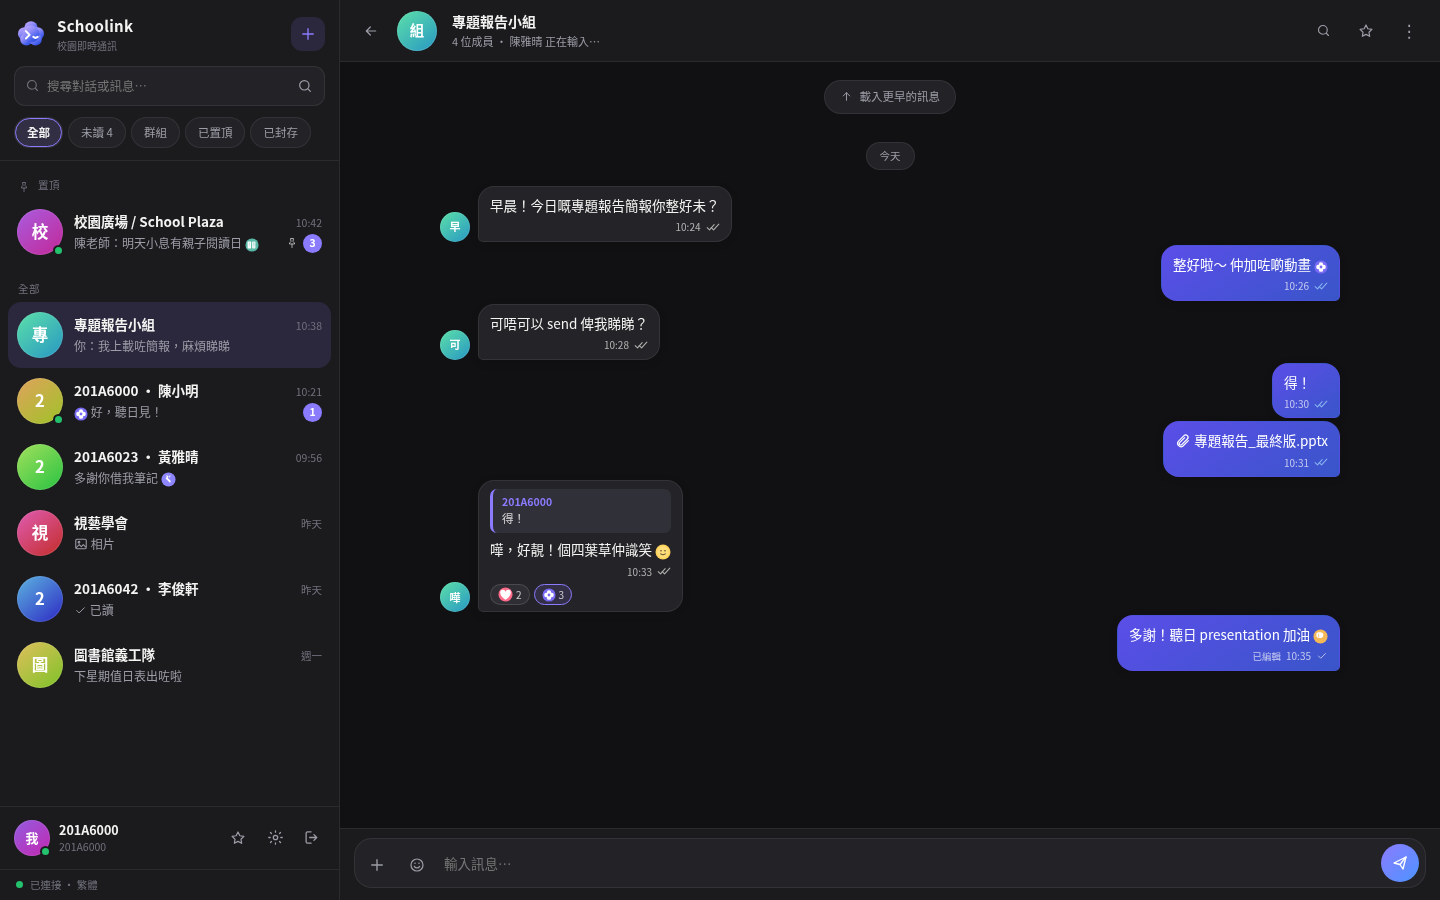
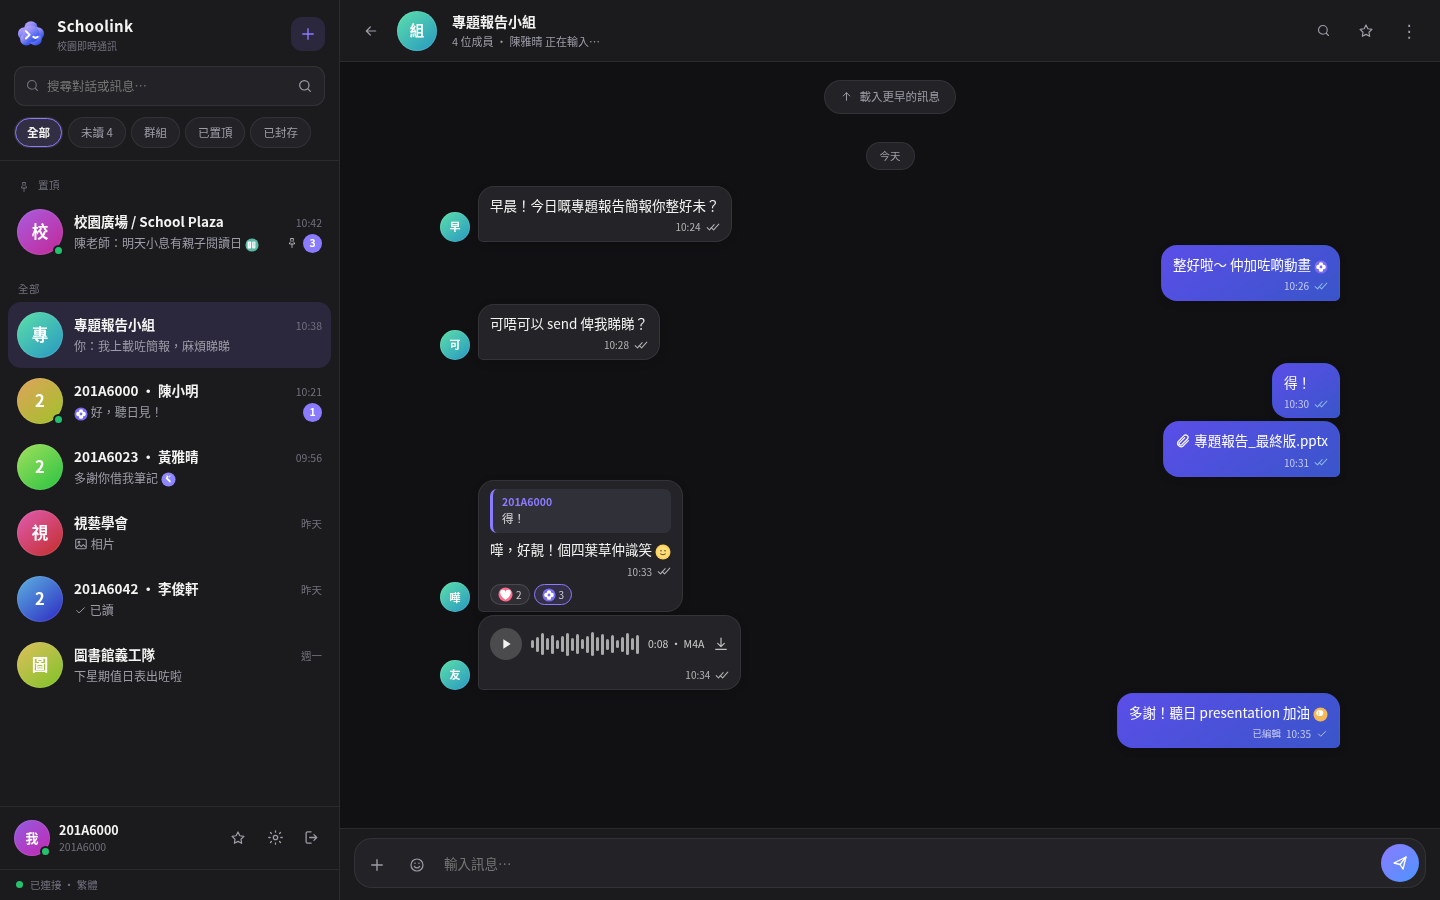
Schoolink v2: TypeScript + Next.js 16, WebSocket realtime, PWA, full animations

Changed region(s): [[0.75, 0.6844, 0.9375, 0.84], [0.2812, 0.6844, 0.4375, 0.7778], [0.4688, 0.7467, 0.5, 0.7778]]

diff --git a/lib/m4a.ts b/lib/m4a.ts
@@ -1,0 +1,148 @@
+/**
+ * 语音统一成 M4A（AAC / MP4）。
+ *
+ * 零第三方依赖，全部用浏览器原生能力：
+ *  1. 录制时优先申请 audio/mp4 —— Safari、iOS、Chrome、Edge、Android 都能直接
+ *     吐出 AAC/M4A，一步到位，没有二次转码、没有音质损失、不用等待。
+ *  2. 万一拿到的是 webm/ogg（Firefox 等），录完后再转：Web Audio 解码成 PCM，
+ *     经 MediaStreamAudioDestinationNode 重新以 audio/mp4 录一遍 → 仍是 M4A。
+ *  3. 连 audio/mp4 录制都不支持的浏览器，才保留原格式，并由 UI 明确提示，
+ *     不让用户以为发出去的是 m4a。
+ */
+
+export const M4A_MIME = "audio/mp4";
+export const M4A_EXT = "m4a";
+
+/** 录音优先格式：M4A 在前，webm 只作兜底 */
+const PREFERRED = [
+  // Safari / iOS 支持显式 AAC，优先拿真·AAC M4A
+  "audio/mp4;codecs=mp4a.40.2",
+  M4A_MIME,
+  "audio/x-m4a",
+  "audio/webm;codecs=opus",
+  "audio/webm",
+  "audio/ogg;codecs=opus",
+];
+
+export function isM4a(mime: string): boolean {
+  return /\b(mp4|x-m4a)\b/i.test(mime || "");
+}
+
+/** 选出这个浏览器能用的最佳录音格式（优先 M4A） */
+export function pickRecorderMime(): string {
+  for (const m of PREFERRED) {
+    try { if (MediaRecorder.isTypeSupported(m)) return m; } catch { /* ignore */ }
+  }
+  return ""; // 交给浏览器默认
+}
+
+/** 浏览器是否具备「把任意录音转成 M4A」的能力 */
+export function canTranscodeToM4a(): boolean {
+  try { return MediaRecorder.isTypeSupported(M4A_MIME); } catch { return false; }
+}
+
+export interface VoiceFile {
+  blob: Blob;
+  mime: string;
+  ext: string;
+  duration: number;
+  /** 是否经过二次编码；false = 直接录成 M4A */
+  converted: boolean;
+  /** 无法产出 M4A 时给用户的说明 */
+  notice?: string;
+}
+
+function audioContextCtor(): typeof AudioContext {
+  const g = window as unknown as { webkitAudioContext?: typeof AudioContext };
+  return window.AudioContext || g.webkitAudioContext!;
+}
+
+function roundDuration(sec: number, fallback: number): number {
+  return sec > 0 && Number.isFinite(sec) ? Math.round(sec) : Math.max(1, Math.round(fallback));
+}
+
+/**
+ * 把录音 blob 规范化成 M4A。永远不会抛错导致语音发不出去。
+ */
+export async function toM4a(raw: Blob, fallbackDuration: number): Promise<VoiceFile> {
+  const rawMime = (raw.type || "").split(";")[0].trim() || "audio/webm";
+
+  // 1. 已经是 M4A（绝大多数情况）：只统一 mime，不动数据
+  if (isM4a(rawMime)) {
+    // 保留 ;codecs=mp4a.40.2 / ;codecs=opus，播放器据此选解码器
+    const mime = raw.type || M4A_MIME;
+    return {
+      blob: new Blob([raw], { type: mime }),
+      mime, ext: M4A_EXT,
+      duration: roundDuration(0, fallbackDuration),
+      converted: false,
+    };
+  }
+
+  // 2. 不能录 MP4：保留原格式，明确告知
+  if (!canTranscodeToM4a()) {
+    return {
+      blob: raw, mime: rawMime,
+      ext: /ogg/i.test(rawMime) ? "ogg" : "webm",
+      duration: roundDuration(0, fallbackDuration),
+      converted: false,
+      notice: "此瀏覽器不支援 M4A 編碼，語音以原格式傳送 / This browser cannot encode M4A; voice sent as recorded",
+    };
+  }
+
+  // 3. 解码 → 重新编码成 M4A
+  let ctx: AudioContext | null = null;
+  try {
+    const Ctor = audioContextCtor();
+    if (!Ctor) throw new Error("Web Audio unavailable");
+    ctx = new Ctor();
+    const decoded = await ctx.decodeAudioData(await raw.arrayBuffer());
+    const duration = roundDuration(decoded.duration, fallbackDuration);
+
+    // 太长的录音不做实时重录（避免用户干等），保留原格式
+    if (decoded.duration > 30) {
+      await ctx.close().catch(() => {});
+      return {
+        blob: raw, mime: rawMime, ext: "webm", duration, converted: false,
+        notice: "語音較長，已保留原格式 / Long voice clip kept in original format",
+      };
+    }
+    await ctx.resume().catch(() => {});
+
+    const dest = ctx.createMediaStreamDestination();
+    const src = ctx.createBufferSource();
+    src.buffer = decoded;
+    src.connect(dest);
+
+    const rec = new MediaRecorder(dest.stream, { mimeType: M4A_MIME });
+    const chunks: Blob[] = [];
+    rec.ondataavailable = (e) => { if (e.data.size) chunks.push(e.data); };
+
+    const done = new Promise<Blob>((resolve, reject) => {
+      rec.onstop = () => resolve(new Blob(chunks, { type: M4A_MIME }));
+      rec.onerror = () => reject(new Error("M4A re-encode failed"));
+    });
+    rec.start();
+    src.start();
+    src.onended = () => { setTimeout(() => { if (rec.state !== "inactive") rec.stop(); }, 120); };
+
+    const guard = new Promise<never>((_, reject) =>
+      setTimeout(() => reject(new Error("M4A re-encode timeout")), (duration + 6) * 1000));
+    const out = await Promise.race([done, guard]);
+
+    src.disconnect();
+    await ctx.close().catch(() => {});
+    if (out.size < 256) throw new Error("M4A output too small");
+
+    return { blob: out, mime: M4A_MIME, ext: M4A_EXT, duration, converted: true };
+  } catch {
+    if (ctx) await ctx.close().catch(() => {});
+    return {
+      blob: raw, mime: rawMime,
+      ext: /ogg/i.test(rawMime) ? "ogg" : "webm",
+      duration: roundDuration(0, fallbackDuration),
+      converted: false,
+      notice: "轉碼失敗，語音以原格式傳送 / Conversion failed; voice sent as recorded",
+    };
+  }
+}

diff --git a/components/Composer.tsx b/components/Composer.tsx
@@ -7,6 +7,7 @@ import { IconButton, Spinner, spring, softSpring } from "./ui";
 import { cx } from "@/lib/utils";
 import { FACE_KEYS } from "@/lib/faces";
 import { FaceIcon, Icon } from "./Icon";
+import { toM4a, pickRecorderMime } from "@/lib/m4a";
 
 export default function Composer({ threadId }: { threadId: string }) {
   const t = useApp((s) => s.t);
@@ -74,13 +75,16 @@ export default function Composer({ threadId }: { threadId: string }) {
     if (recording) {
       const rec = recRef.current;
       if (rec) {
-        rec.recorder.onstop = () => {
-          const blob = new Blob(rec.chunks, { type: rec.recorder.mimeType || "audio/webm" });
-          const duration = Math.max(1, Math.round((Date.now() - rec.start) / 1000));
-          const ext = (rec.recorder.mimeType || "audio/webm").includes("mp4") ? "m4a" : "webm";
-          const file = new File([blob], `voice-${Date.now()}.${ext}`, { type: rec.recorder.mimeType || "audio/webm" });
+        rec.recorder.onstop = async () => {
+          const elapsed = Math.max(1, Math.round((Date.now() - rec.start) / 1000));
+          const raw = new Blob(rec.chunks, { type: rec.recorder.mimeType || "audio/webm" });
           rec.stream.getTracks().forEach((tr) => tr.stop());
-          uploadAndSend(file, "audio", duration);
+          recRef.current = null;
+          // 统一成 M4A：直录 MP4 时零转码；拿到 webm 时解码后重新编码
+          const voice = await toM4a(raw, elapsed);
+          if (voice.notice) useApp.getState().toastMsg(voice.notice, "err");
+          const file = new File([voice.blob], `voice-${Date.now()}.${voice.ext}`, { type: voice.mime });
+          await uploadAndSend(file, "audio", voice.duration);
         };
         rec.recorder.stop();
       }
@@ -89,8 +93,7 @@ export default function Composer({ threadId }: { threadId: string }) {
     }
     try {
       const stream = await navigator.mediaDevices.getUserMedia({ audio: true });
-      const mime = MediaRecorder.isTypeSupported("audio/webm") ? "audio/webm"
-        : MediaRecorder.isTypeSupported("audio/mp4") ? "audio/mp4" : "";
+      const mime = pickRecorderMime();
       const recorder = new MediaRecorder(stream, mime ? { mimeType: mime } : undefined);
       const chunks: Blob[] = [];
       recorder.ondataavailable = (e) => { if (e.data.size) chunks.push(e.data); };

diff --git a/worker/index.ts b/worker/index.ts
@@ -28,8 +28,9 @@ export { RealtimeHub } from "./chat-room";
 const MIME_EXT: Record<string, string> = {
   "image/png": "png", "image/jpeg": "jpg", "image/webp": "webp",
   "image/gif": "gif", "image/avif": "avif", "image/heic": "heic",
-  "audio/webm": "webm", "audio/mp4": "m4a", "audio/mpeg": "mp3",
-  "audio/ogg": "ogg", "audio/wav": "wav", "audio/x-m4a": "m4a",
+  "audio/webm": "webm", "audio/mp4": "m4a", "audio/m4a": "m4a",
+  "audio/aac": "m4a", "audio/x-m4a": "m4a", "audio/mpeg": "mp3",
+  "audio/ogg": "ogg", "audio/wav": "wav",
   "application/pdf": "pdf", "text/plain": "txt",
   "application/zip": "zip", "application/json": "json",
   "application/msword": "doc",
@@ -458,7 +459,10 @@ async function route(request: Request, env: Env, url: URL): Promise<Response> {
     const form = await request.formData();
     const file = form.get("file");
     if (!file || typeof file === "string") return fail("Missing file", 400);
-    const mime = file.type || "application/octet-stream";
+    // 浏览器可能给 audio/mp4;codecs=mp4a.40.2，去掉参数再查白名单；
+    // 但 R2 响应头保留完整 codecs，播放器才不会把 Opus-in-MP4 当成 AAC
+    const rawType = (file.type || "application/octet-stream").trim();
+    const mime = rawType.split(";")[0].trim().toLowerCase();
     const ext = MIME_EXT[mime];
     if (!ext) return fail("不支援的檔案類型 / Unsupported file type", 415);
     if (file.size > MAX_UPLOAD) return fail("檔案超過 20MB / File too large", 413);
@@ -466,7 +470,7 @@ async function route(request: Request, env: Env, url: URL): Promise<Response> {
     const stamp = new Date().toISOString().slice(0, 7).replace("-", "/");
     const key = `${category}/${stamp}/${uid()}.${ext}`;
     await env.IMAGES.put(key, await file.arrayBuffer(), {
-      httpMetadata: { contentType: mime, cacheControl: "public, max-age=31536000, immutable" },
+      httpMetadata: { contentType: rawType, cacheControl: "public, max-age=31536000, immutable" },
       customMetadata: { uploader: me.id, name: String(file.name || "file").slice(0, 120) },
     });
     return json({ ok: true, key, url: mediaUrl(key, cfg), name: file.name, size: file.size, mime });

diff --git a/components/MessageBubble.tsx b/components/MessageBubble.tsx
@@ -41,7 +41,7 @@ function AudioPlayer({ m, url }: { m: Message; url: string }) {
           />
         ))}
       </div>
-      <span className="audio-time">{fmtDuration(m.duration)}</span>
+      <span className="audio-time">{fmtDuration(m.duration)}{/\.m4a$/i.test(m.media_name || "") ? " · M4A" : ""}</span>
       <audio ref={ref} src={url} preload="metadata"
         onTimeUpdate={(e) => {
           const a = e.currentTarget;

diff --git a/scripts/selfcheck.py b/scripts/selfcheck.py
@@ -301,6 +301,27 @@ ok("前后端表情回应白名单一致",
 ok("CSS 已适配 SVG 图标", ".svg-icon" in text("app/globals.css") and ".inline-face" in text("app/globals.css"))
 ok("邮件模板不含 emoji", not emoji_re.search(text("worker/index.ts")))
 
+# ── 13. 语音统一 M4A ───────────────────────────────────────────────
+m4a = text("lib/m4a.ts")
+composer = text("components/Composer.tsx")
+worker_upload = text("worker/index.ts")
+bubble = text("components/MessageBubble.tsx")
+ok("M4A 编码模块存在", "export async function toM4a" in m4a and "export function pickRecorderMime" in m4a)
+ok("Composer 接入 M4A 转换", "toM4a(raw, elapsed)" in composer and "pickRecorderMime()" in composer)
+aac_i = m4a.find('"audio/mp4;codecs=mp4a.40.2"')
+mp4_i = m4a.find('  M4A_MIME,')
+ok("优先申请显式 AAC 编码", aac_i >= 0 and mp4_i > aac_i >= 0, f"aac@{aac_i} mp4@{mp4_i}")
+ok("录音不再硬编码 webm 优先", '"audio/webm") ? "audio/webm"' not in composer)
+ok("Worker 归一化带 codecs 的 MIME", 'split(";")[0]' in worker_upload and "rawType" in worker_upload)
+ok("R2 响应头保留完整 codecs", "contentType: rawType" in worker_upload)
+ok("audio/mp4 映射为 .m4a", '"audio/mp4": "m4a"' in worker_upload)
+ok("语音气泡标注 M4A", "M4A" in bubble and "\\.m4a$" in bubble)
+lock_pkgs = parsed.get("package-lock.json", {}).get("packages", {})
+ok("M4A 不引入新依赖（零 WASM）", "node_modules/mp4-muxer" not in lock_pkgs
+   and not any("ffmpeg" in k for k in lock_pkgs))
+ok("README 说明 M4A 平台差异", "語音：统一 M4A" in text("README.md")
+   or "语音：统一 M4A" in text("README.md"))
+
 # ── 汇总 ───────────────────────────────────────────────────────────
 print(" Schoolink self-check\n")
 for passed, name, detail in results:
